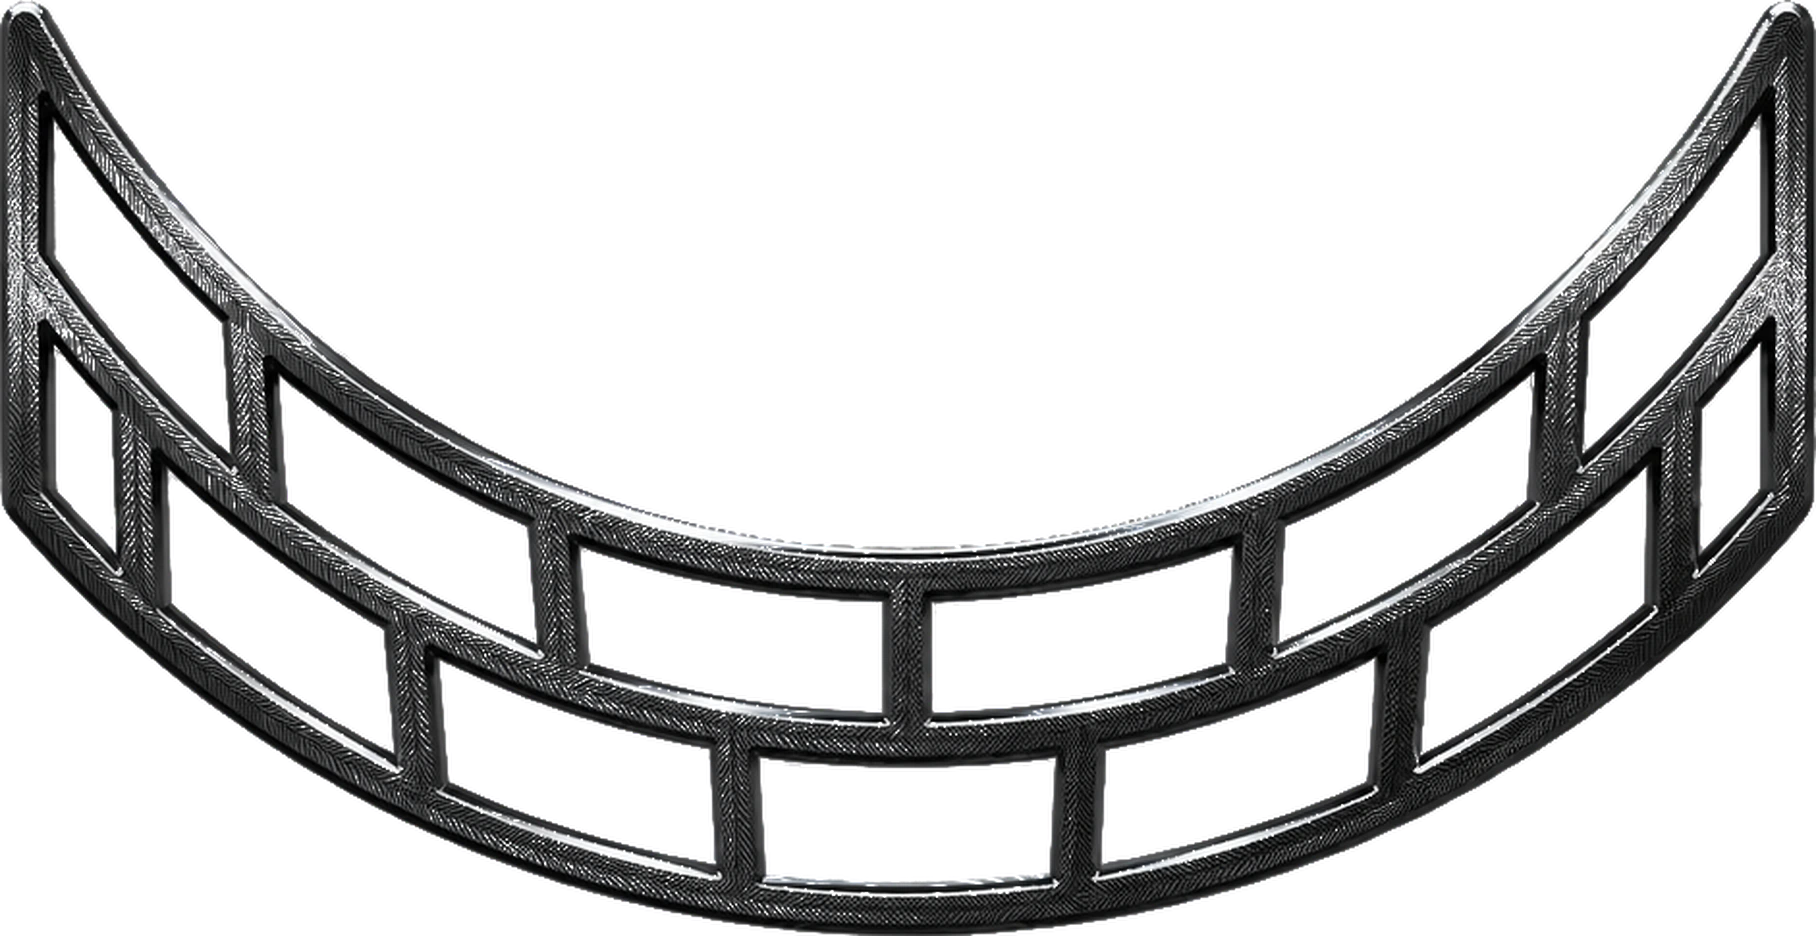
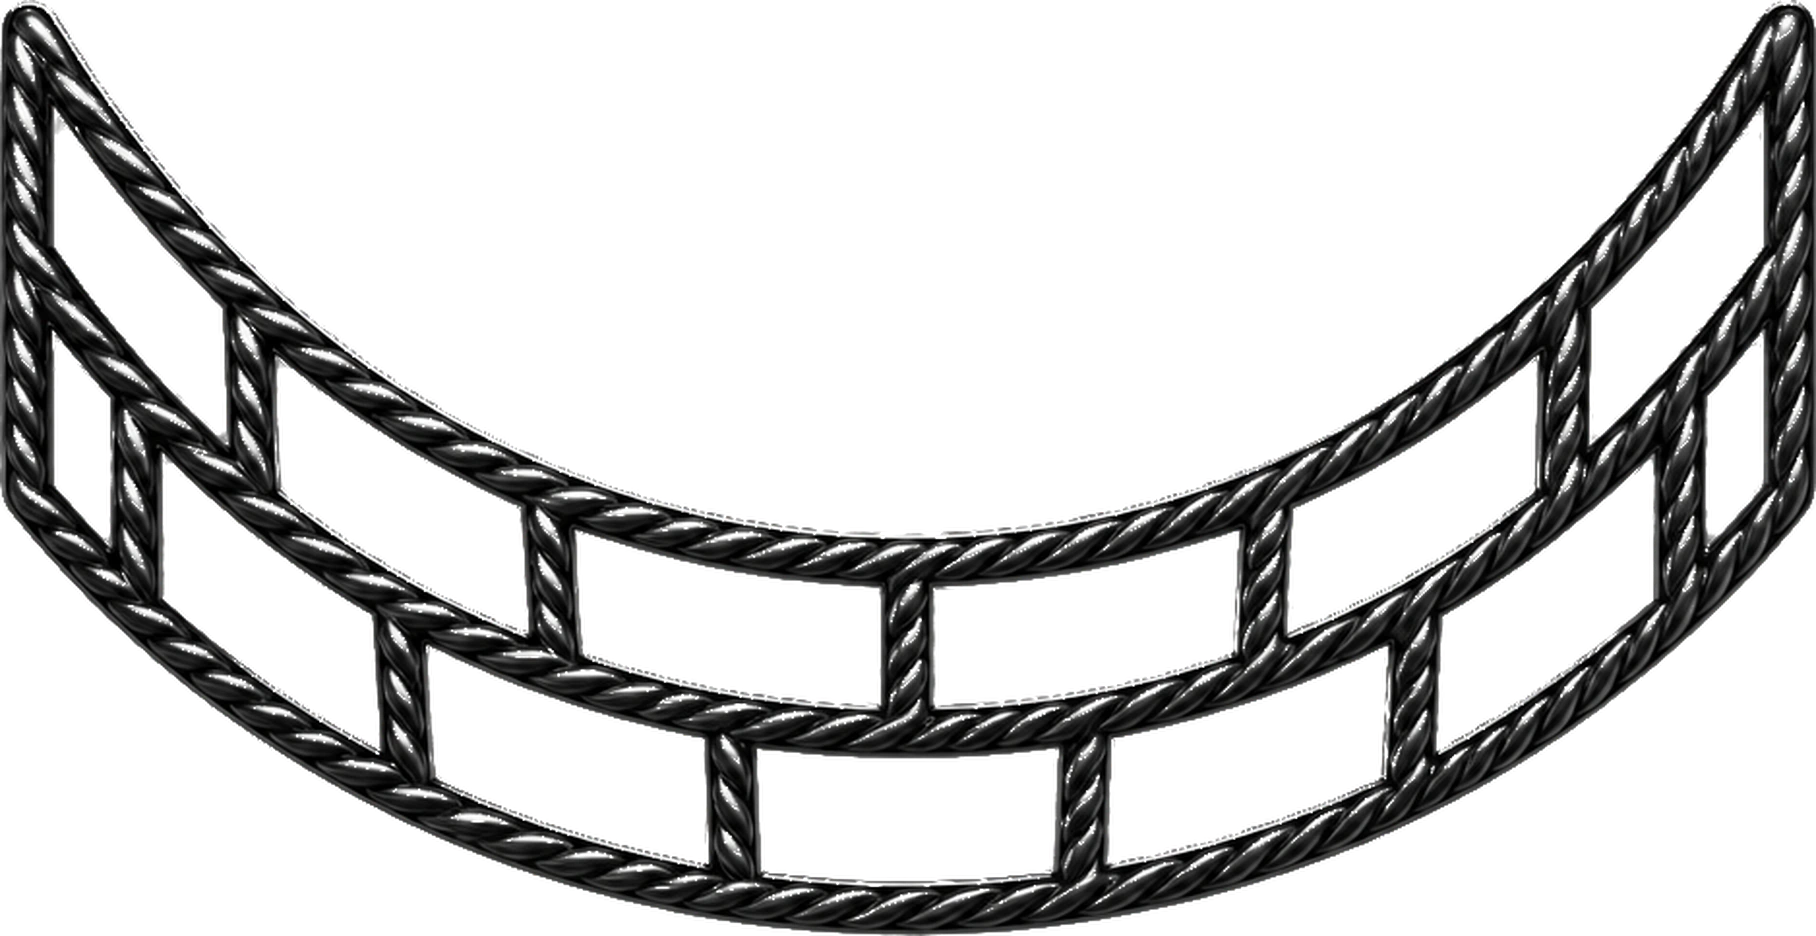
Black panel frame: twisted-cord (torsade) variant

Changed region(s): [[0.0, 0.0, 1.0, 1.0]]

diff --git a/zodiac-duo.js b/zodiac-duo.js
@@ -24,7 +24,7 @@
 
   var SCRIPT_SRC = (document.currentScript && document.currentScript.src) || "";
   var ASSETS = CFG.assets || SCRIPT_SRC.replace(/[^/]*$/, "") + "assets";
-  var AV = "?v=m21"; // версия ассетов (медальоны v2) — сброс кэша слоёв и свотчей
+  var AV = "?v=m22"; // версия ассетов (медальоны v2) — сброс кэша слоёв и свотчей
   var M = window.ZD_MANIFEST;
   // Медальон в конструкторе чуть меньше слоя PSD (масштаб от центра); общий манифест не трогаем — лендинг видит исходный размер
   var MEDAL_SCALE = 0.9;

diff --git a/index.html b/index.html
@@ -249,7 +249,7 @@
     };
   </script>
   <script src="assets/manifest.js?v=20261011r"></script>
-  <script src="zodiac-duo.js?v=20261015bk2"></script>
+  <script src="zodiac-duo.js?v=20261015bk3"></script>
   <script src="landing/landing.js?v=20"></script>
   <script type="importmap">
     { "imports": {

diff --git a/demo.html b/demo.html
@@ -40,6 +40,6 @@
     };
   </script>
   <script src="assets/manifest.js?v=20261011r"></script>
-  <script src="zodiac-duo.js?v=20261015bk2"></script>
+  <script src="zodiac-duo.js?v=20261015bk3"></script>
 </body>
 </html>
